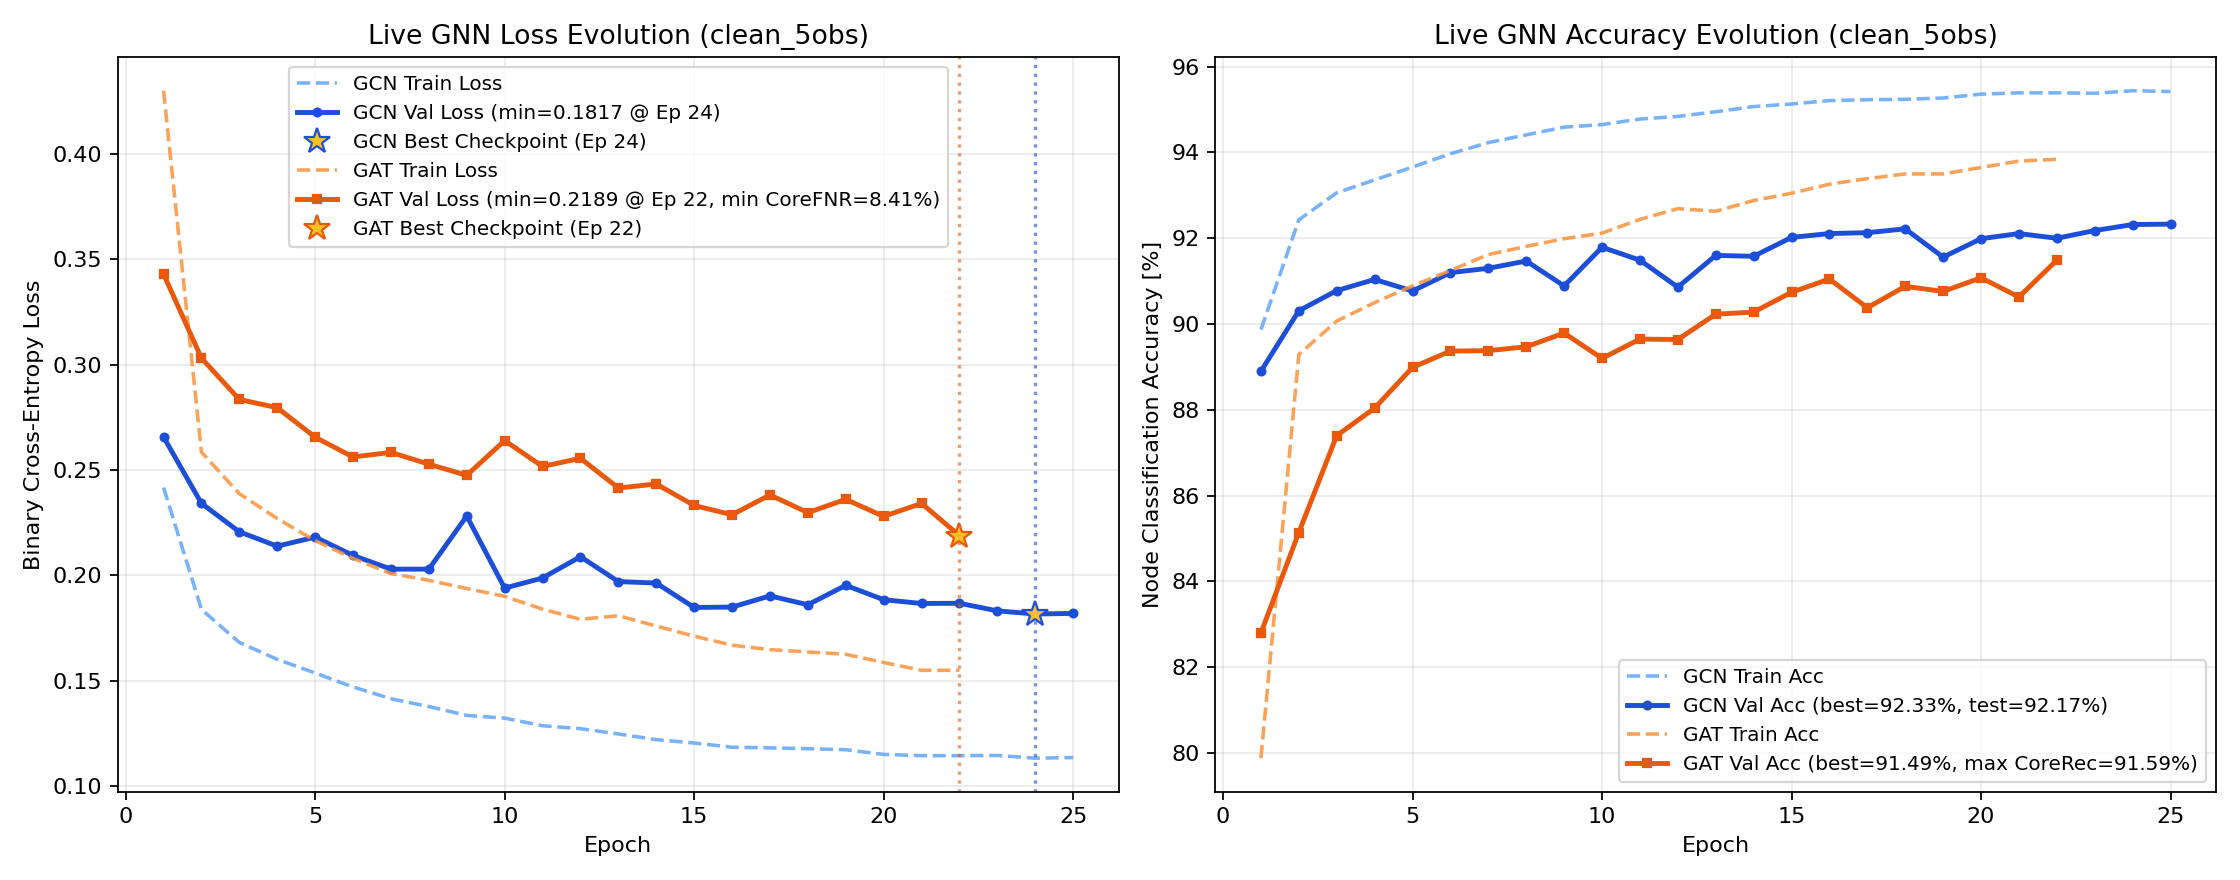
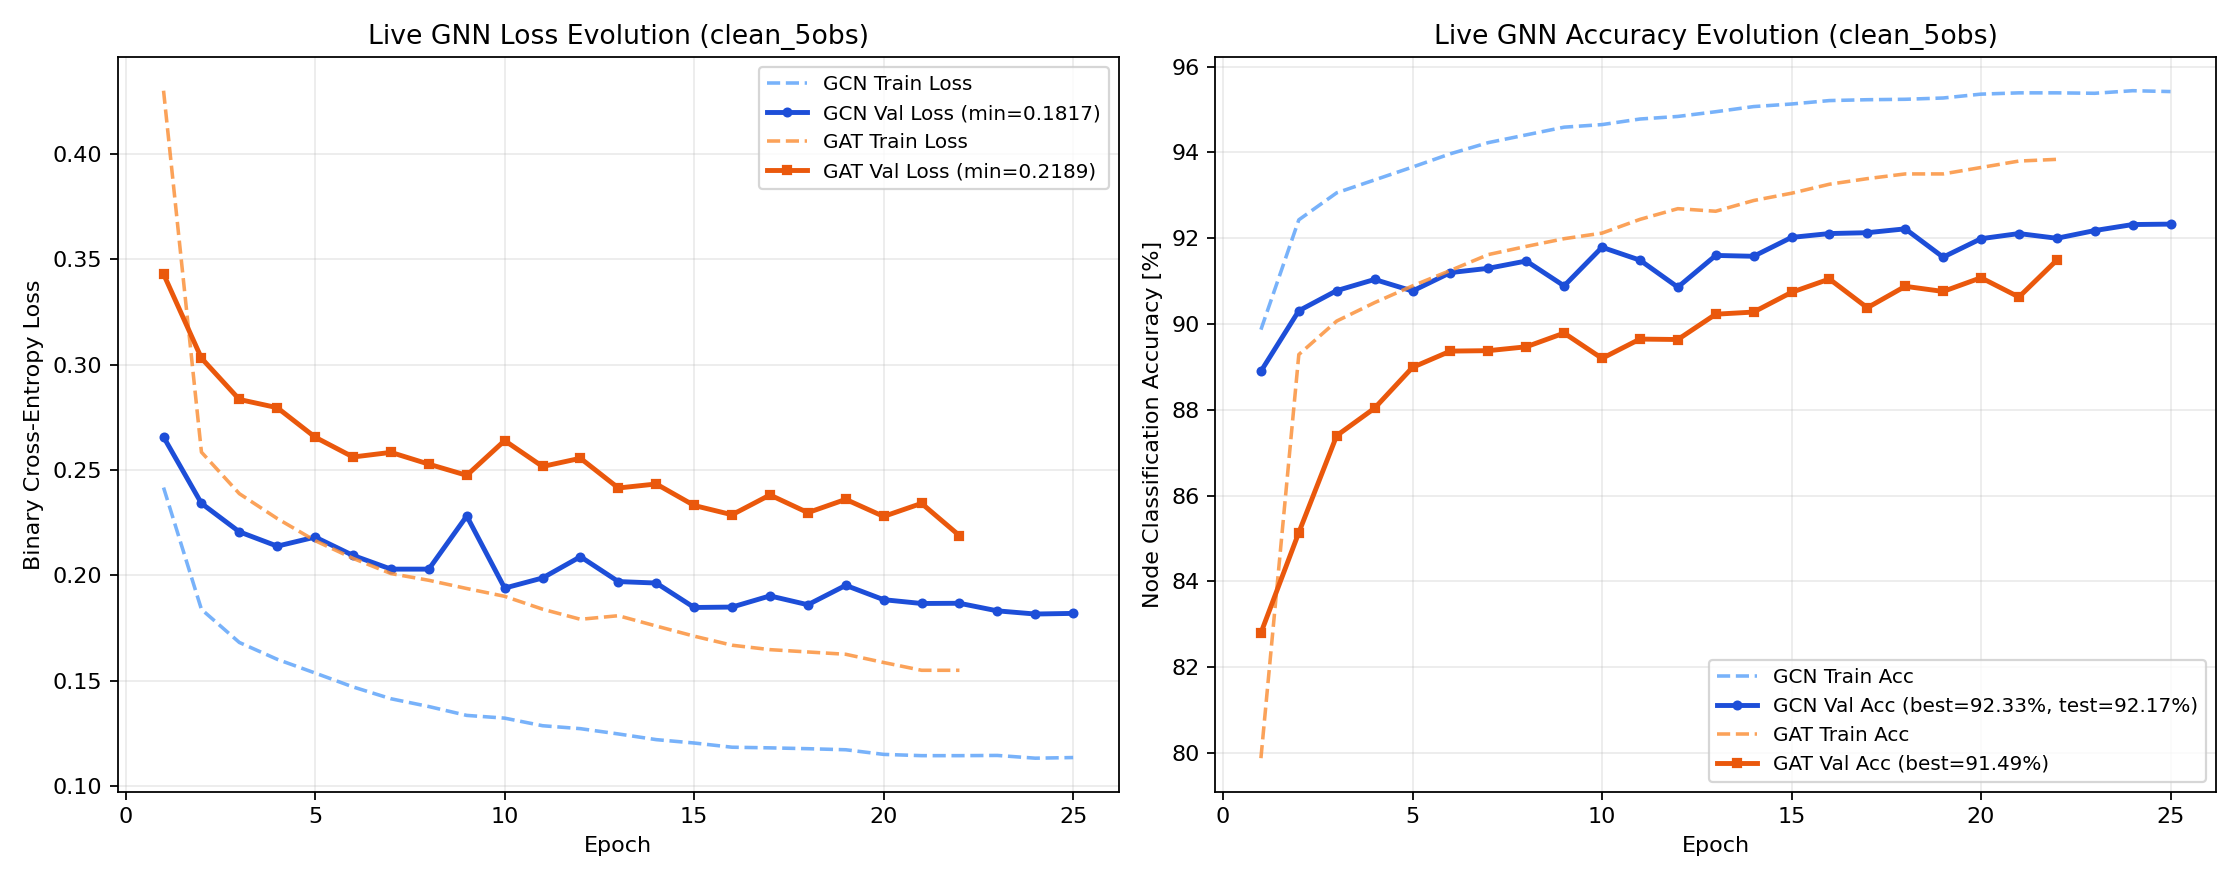
Update Study 2 live status and figures (2026-11-13 07:44)

diff --git a/LIVE_STATUS.md b/LIVE_STATUS.md
@@ -1,44 +1,30 @@
 # Live Pipeline Status on Jed
 
 ```text
-[2026-11-13 07:42:00] Study 2 Pipeline Status on Jed
+[2026-11-13 07:44:20] Study 2 Pipeline Status on Jed
 - Step 1 (Plummer ICs): 81 / 81 ready
 - Step 2 (SWIFT Runs): 81 / 81 completed (101 snapshots)
 - Step 3 (Observables): Labels=81/81 | Clean=81/81 | GaiaNoisy=81/81
 - Step 4 (5D Graphs): Clean=81/81 | GaiaNoisy=81/81
 - Step 5/6 Live GNN Training Progress:
-  * clean_5obs/training_metrics_gat_clean.log: Ep 022 | Train 0.1550 (93.84%) | Val 0.2189 (91.49%, Best=91.49%) | CoreFNR: 12.50% (min=8.41%) | Test=In progress
+  * clean_5obs/training_metrics_gat_clean.log: Ep 022 | Train 0.1550 (93.84%) | Val 0.2189 (91.49%, Best=91.49%) | Test=In progress
   * clean_5obs/training_metrics_gcn_clean.log: Ep 025 | Train 0.1136 (95.42%) | Val 0.1820 (92.33%, Best=92.33%) | Test=92.17%
   * legacy/clean_5obs_static_5rot/training_metrics_gcn_clean.log: Ep 025 | Train 0.1136 (95.42%) | Val 0.1820 (92.33%, Best=92.33%) | Test=92.17%
-- Saved Model Checkpoints (.pth): 8 mirrored in GNN-jed/trained_models/study2/weights/
 
 SLURM Queue:
 JOBID  PARTITION                   NAME   ST       TIME  NODES NODELIST(REASON)
       41146836   academic Study2_Step7_GCNStocha   PD       0:00      2 (Dependency)
 41146835_[0-4%   academic      Study2_Step6_4Obs   PD       0:00      2 (Dependency)
-      41146834   academic   Study2_Step5_Train81    R   16:57:11      2 jst[317,320]
+      41146834   academic   Study2_Step5_Train81    R   16:57:42      2 jst[317,320]
 ```
 
 ## Live Neural Network Training Metrics
 
-| Experiment | Architecture | Latest Epoch | Train Loss | Train Acc | Val Loss | Val Acc | Best Val Acc | Core FNR | Test Acc | Test F1 |
-| :--- | :---: | :---: | :---: | :---: | :---: | :---: | :---: | :---: | :---: | :---: |
-| `clean_5obs` | **GAT** | 22 | 0.1550 | 93.84% | 0.2189 | 91.49% | **91.49%** | 8.41% (val min) | **In progress** | - |
-| `clean_5obs` | **GCN** | 25 | 0.1136 | 95.42% | 0.1820 | 92.33% | **92.33%** | - | **92.17%** | 0.8886 |
-| `clean_5obs_static_5rot` | **GCN** | 25 | 0.1136 | 95.42% | 0.1820 | 92.33% | **92.33%** | - | **92.17%** | 0.8886 |
-
-## Saved Model Weights (`.pth` Checkpoints)
-
-| Checkpoint | Size | Experiment Path | Central Archive Mirror |
-| :--- | :---: | :--- | :--- |
-| `best_gat_clean.pth` | 361.2 KB | `GNN-jed/trained_models/study2/clean_5obs/best_gat_clean.pth` | `GNN-jed/trained_models/study2/weights/best_gat_clean.pth` |
-| `best_gat_clean_ep18_backup.pth` | 361.2 KB | `GNN-jed/trained_models/study2/clean_5obs/best_gat_clean_ep18_backup.pth` | `GNN-jed/trained_models/study2/weights/best_gat_clean_ep18_backup.pth` |
-| `best_gcn_clean.pth` | 120.0 KB | `GNN-jed/trained_models/study2/clean_5obs/best_gcn_clean.pth` | `GNN-jed/trained_models/study2/weights/best_gcn_clean.pth` |
-| `best_gat_clean_ep18_backup.pth` | 361.2 KB | `GNN-jed/trained_models/study2/legacy/clean_5obs_static_5rot/best_gat_clean_ep18_backup.pth` | `GNN-jed/trained_models/study2/weights/best_gat_clean_ep18_backup.pth` |
-| `best_gcn_clean.pth` | 120.0 KB | `GNN-jed/trained_models/study2/legacy/clean_5obs_static_5rot/best_gcn_clean.pth` | `GNN-jed/trained_models/study2/weights/best_gcn_clean.pth` |
-| `best_gat_clean.pth` | 361.2 KB | `GNN-jed/trained_models/study2/legacy/weights/best_gat_clean.pth` | `GNN-jed/trained_models/study2/weights/best_gat_clean.pth` |
-| `best_gat_clean_ep18_backup.pth` | 361.2 KB | `GNN-jed/trained_models/study2/legacy/weights/best_gat_clean_ep18_backup.pth` | `GNN-jed/trained_models/study2/weights/best_gat_clean_ep18_backup.pth` |
-| `best_gcn_clean.pth` | 120.0 KB | `GNN-jed/trained_models/study2/legacy/weights/best_gcn_clean.pth` | `GNN-jed/trained_models/study2/weights/best_gcn_clean.pth` |
+| Experiment | Architecture | Latest Epoch | Train Loss | Train Acc | Val Loss | Val Acc | Best Val Acc | Test Acc | Test F1 |
+| :--- | :---: | :---: | :---: | :---: | :---: | :---: | :---: | :---: | :---: |
+| `clean_5obs` | **GAT** | 22 | 0.1550 | 93.84% | 0.2189 | 91.49% | **91.49%** | **In progress** | - |
+| `clean_5obs` | **GCN** | 25 | 0.1136 | 95.42% | 0.1820 | 92.33% | **92.33%** | **92.17%** | 0.8886 |
+| `clean_5obs_static_5rot` | **GCN** | 25 | 0.1136 | 95.42% | 0.1820 | 92.33% | **92.33%** | **92.17%** | 0.8886 |
 
 ## Real-Time GNN Learning Curves (Loss & Accuracy Evolution)
 
